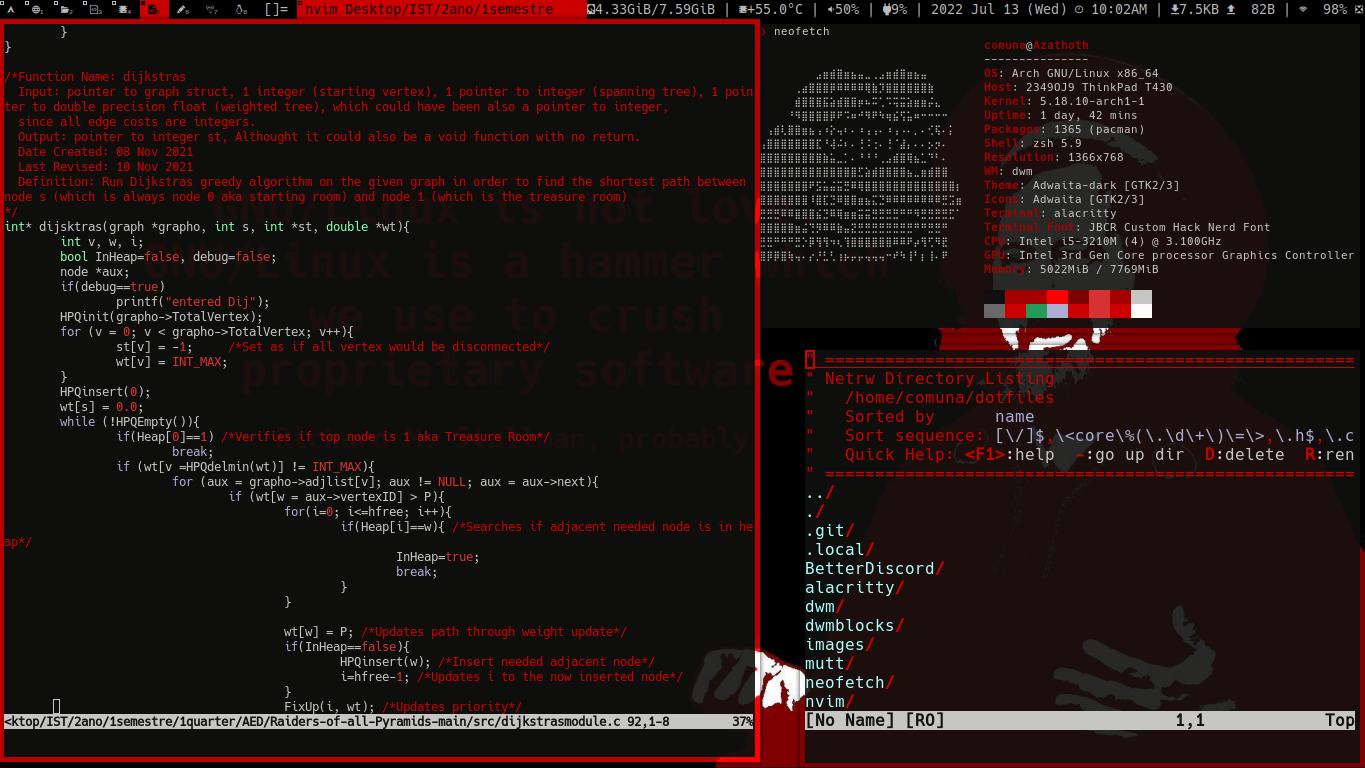
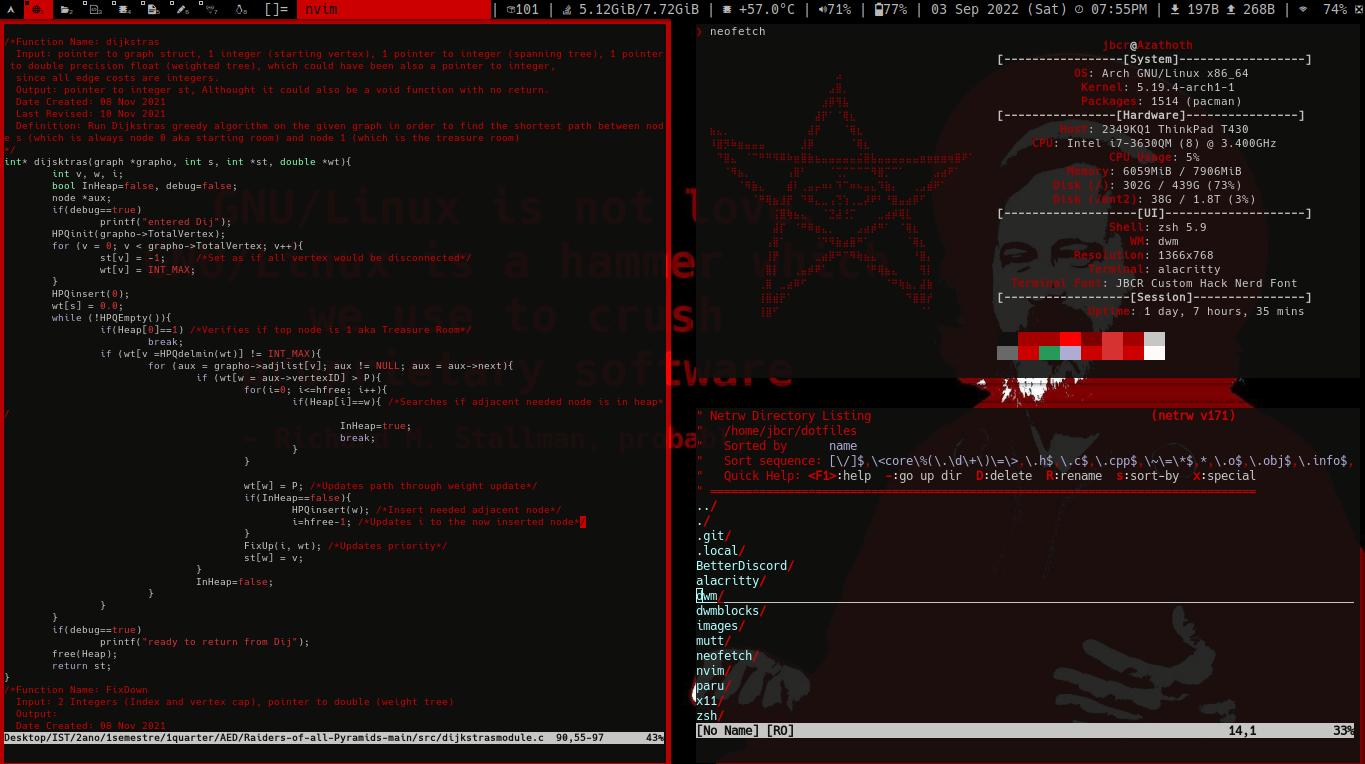
Minor changes. Changed Neofetch output. Added fixes to mutt after user and /~ change

diff --git a/dwm/built-pkg/dwm/config.h b/dwm/built-pkg/dwm/config.h
@@ -101,7 +101,7 @@ static Key keys[] = {
 	TAGKEYS(                        XK_8,                      7)
 	TAGKEYS(                        XK_9,                      8)
 	{ MODKEY|ShiftMask,             XK_q,      quit,           {0} },
-	{ 0,          XK_End,  spawn,          {.v = screenshotcmd } },
+	{ 0,          XK_Print,  spawn,          {.v = screenshotcmd } },
 	{ 0,          XK_Scroll_Lock,  spawn,          {.v = lockcmd } },
 };
 

diff --git a/dwmblocks/built-pkg/dwmblocks/config.h b/dwmblocks/built-pkg/dwmblocks/config.h
@@ -1,6 +1,7 @@
 //Modify this file to change what commands output to your statusbar, and recompile using the make command.
 static const Block blocks[] = {
 	/*Icon*/	/*Command*/		/*Update Interval*/	/*Update Signal*/
+	/*{"",    "sb-banana",       2,     11},*/
 	{"",	"sb-pacpackages",	20,	8},
 	{"",	"sb-memory",	10,	14},
 	{"",	"sb-cpu",		10,	18}, 
